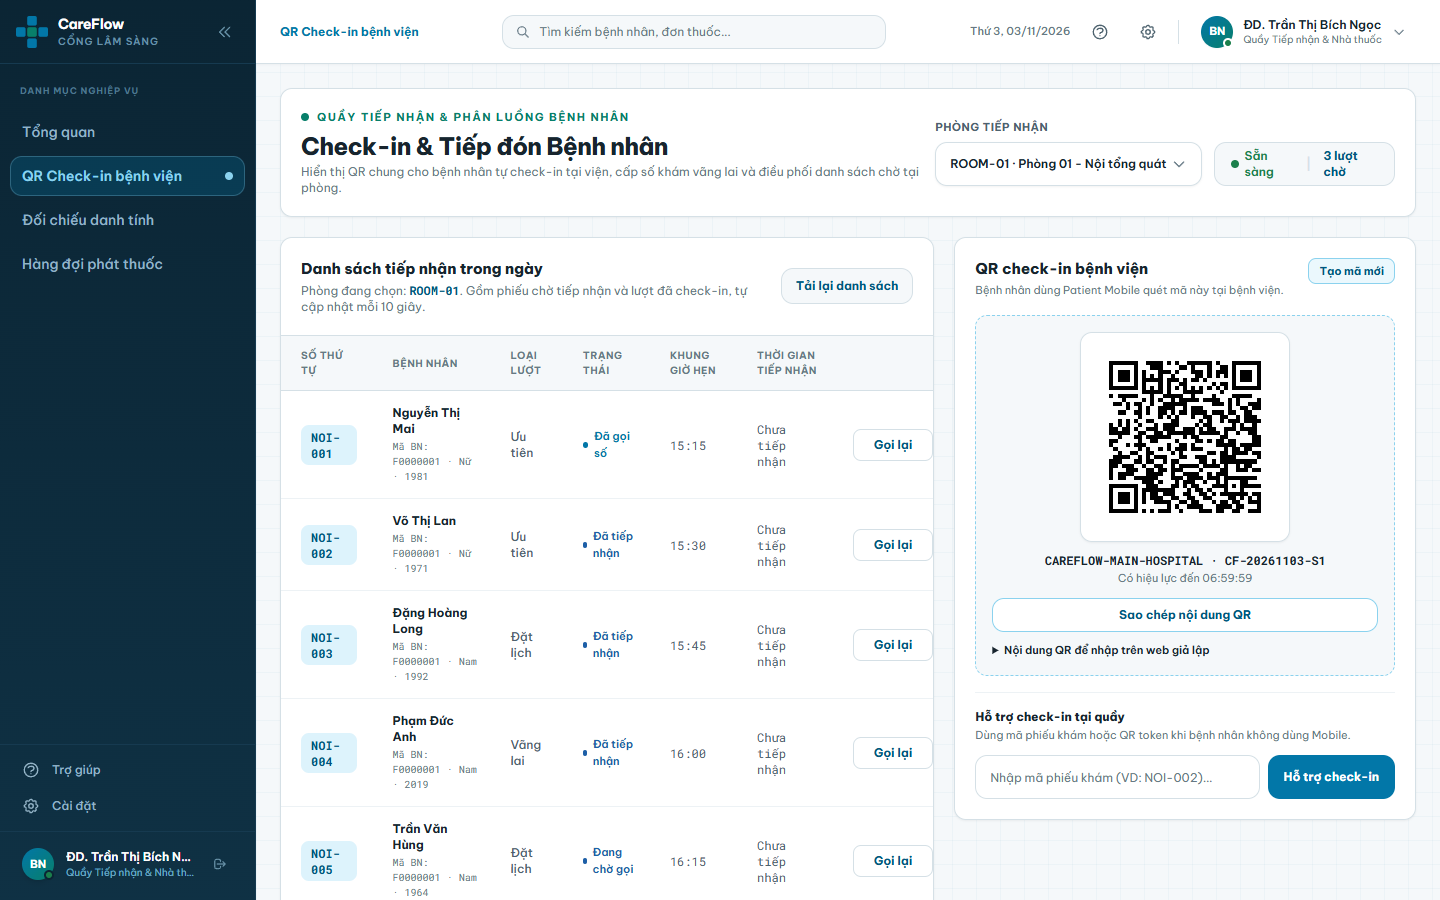
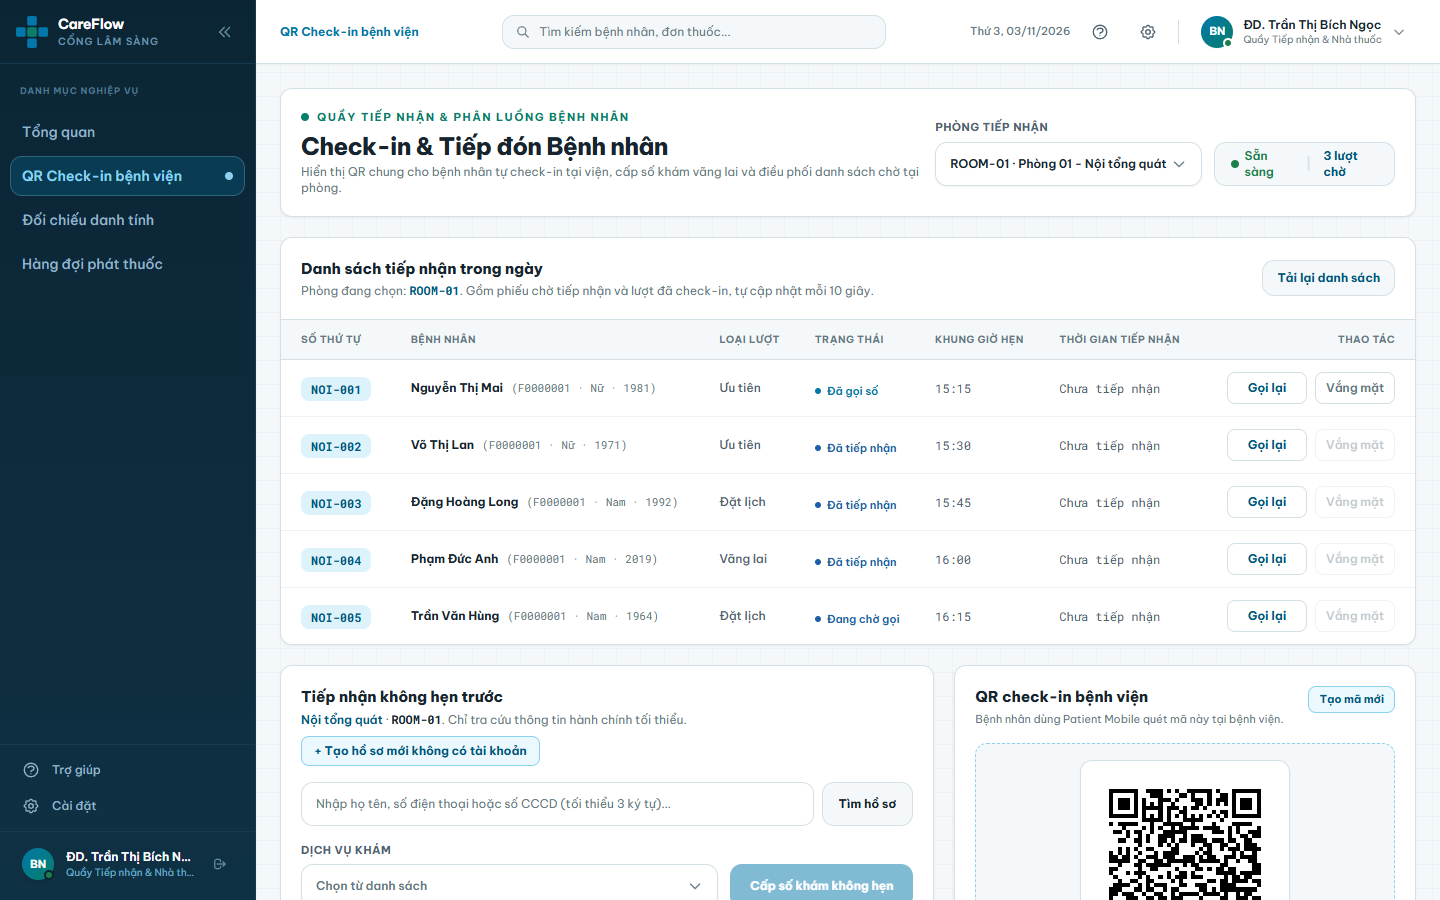
style(checkin): make ReceptionQueueTable full-width with single-line rows

diff --git a/frontend/doctor-web/src/components/queue/ReceptionQueueTable.tsx b/frontend/doctor-web/src/components/queue/ReceptionQueueTable.tsx
@@ -70,16 +70,16 @@ export default function ReceptionQueueTable({
         </div>
       ) : (
         <div className="overflow-x-auto">
-          <table className="w-full min-w-[760px] border-collapse text-left">
+          <table className="w-full border-collapse text-left">
             <thead>
               <tr className="border-b border-[#D5E0E6] bg-[#F5F8FA] text-[10px] font-bold uppercase tracking-wider text-[#667985]">
-                <th className="px-5 py-3">Số thứ tự</th>
-                <th className="px-4 py-3">Bệnh nhân</th>
-                <th className="px-4 py-3">Loại lượt</th>
-                <th className="px-4 py-3">Trạng thái</th>
-                <th className="px-4 py-3">Khung giờ hẹn</th>
-                <th className="px-4 py-3">Thời gian tiếp nhận</th>
-                <th className="px-5 py-3 text-right">Thao tác</th>
+                <th className="whitespace-nowrap px-5 py-3">Số thứ tự</th>
+                <th className="whitespace-nowrap px-4 py-3">Bệnh nhân</th>
+                <th className="whitespace-nowrap px-4 py-3">Loại lượt</th>
+                <th className="whitespace-nowrap px-4 py-3">Trạng thái</th>
+                <th className="whitespace-nowrap px-4 py-3">Khung giờ hẹn</th>
+                <th className="whitespace-nowrap px-4 py-3">Thời gian tiếp nhận</th>
+                <th className="whitespace-nowrap px-5 py-3 text-right">Thao tác</th>
               </tr>
             </thead>
             <tbody>
@@ -97,19 +97,21 @@ export default function ReceptionQueueTable({
                 return (
                   <tr
                     key={entry.entryId}
-                    className="min-h-[44px] border-b border-[#EDF2F5] last:border-0 hover:bg-[#F5F8FA]/80"
+                    className="min-h-[48px] border-b border-[#EDF2F5] last:border-0 hover:bg-[#F5F8FA]/80"
                   >
-                    <td className="px-5 py-3.5">
-                      <span className="inline-flex rounded-lg bg-[#DDF3FC] px-2.5 py-1 font-mono text-xs font-extrabold text-[#00577E]">
+                    <td className="whitespace-nowrap px-5 py-3">
+                      <span className="inline-flex whitespace-nowrap rounded-lg bg-[#DDF3FC] px-2.5 py-1 font-mono text-xs font-extrabold text-[#00577E]">
                         {entry.queueNumber}
                       </span>
                     </td>
-                    <td className="px-4 py-3.5">
+                    <td className="whitespace-nowrap px-4 py-3">
                       {patient ? (
-                        <div>
-                          <p className="text-xs font-bold text-[#17242D]">{patient.fullName}</p>
-                          <p className="mt-0.5 font-mono text-[10px] text-[#667985]">
-                            Mã BN: {patient.id.slice(0, 8).toUpperCase()} ·{" "}
+                        <div className="flex items-baseline gap-2">
+                          <span className="whitespace-nowrap text-xs font-bold text-[#17242D]">
+                            {patient.fullName}
+                          </span>
+                          <span className="whitespace-nowrap font-mono text-[11px] text-[#667985]">
+                            ({patient.id.slice(0, 8).toUpperCase()} ·{" "}
                             {patient.gender === "MALE"
                               ? "Nam"
                               : patient.gender === "FEMALE"
@@ -118,41 +120,47 @@ export default function ReceptionQueueTable({
                             {patient.dateOfBirth
                               ? ` · ${new Date(patient.dateOfBirth).getFullYear()}`
                               : ""}
-                          </p>
+                            )
+                          </span>
                         </div>
                       ) : (
-                        <div>
-                          <p className="text-xs font-medium text-[#667985]">Đang tải thông tin</p>
-                          <p className="mt-0.5 font-mono text-[10px] text-[#667985]">
-                            Mã BN: {entry.patientId.slice(0, 8).toUpperCase()}
-                          </p>
+                        <div className="flex items-baseline gap-2">
+                          <span className="whitespace-nowrap text-xs font-medium text-[#667985]">
+                            Đang tải thông tin
+                          </span>
+                          <span className="whitespace-nowrap font-mono text-[11px] text-[#667985]">
+                            ({entry.patientId.slice(0, 8).toUpperCase()})
+                          </span>
                         </div>
                       )}
                     </td>
-                    <td className="px-4 py-3.5 text-xs font-medium text-[#4D626E]">
+                    <td className="whitespace-nowrap px-4 py-3 text-xs font-medium text-[#4D626E]">
                       {PRIORITY_LABELS[entry.priorityLevel] || entry.priorityLevel}
                     </td>
-                    <td className="px-4 py-3.5">
+                    <td className="whitespace-nowrap px-4 py-3">
                       <ReceptionStatusText status={entry.queueStatus} />
                     </td>
-                    <td className="px-4 py-3.5 font-mono text-xs text-[#4D626E]">
+                    <td className="whitespace-nowrap px-4 py-3 font-mono text-xs text-[#4D626E]">
                       {new Date(entry.scheduledStartAt).toLocaleTimeString("vi-VN", {
                         hour: "2-digit",
                         minute: "2-digit",
                       })}
                     </td>
-                    <td className="px-4 py-3.5 font-mono text-xs text-[#4D626E]">
+                    <td className="whitespace-nowrap px-4 py-3 font-mono text-xs text-[#4D626E]">
                       {entry.checkedInAt
-                        ? new Date(entry.checkedInAt).toLocaleTimeString("vi-VN")
+                        ? new Date(entry.checkedInAt).toLocaleTimeString("vi-VN", {
+                            hour: "2-digit",
+                            minute: "2-digit",
+                          })
                         : "Chưa tiếp nhận"}
                     </td>
-                    <td className="px-5 py-3.5">
-                      <div className="flex justify-end gap-2">
+                    <td className="whitespace-nowrap px-5 py-3">
+                      <div className="flex items-center justify-end gap-2">
                         {canCheckIn && (
                           <button
                             onClick={() => onCheckInEntry(entry)}
                             disabled={isProcessing}
-                            className="h-8 w-24 rounded-lg bg-[#0277A8] text-xs font-bold text-white transition-colors hover:bg-[#00577E] disabled:opacity-50"
+                            className="h-8 w-24 whitespace-nowrap rounded-lg bg-[#0277A8] text-xs font-bold text-white transition-colors hover:bg-[#00577E] disabled:opacity-50"
                           >
                             {isProcessing ? "Đang xử lý" : "Duyệt vào"}
                           </button>
@@ -167,14 +175,14 @@ export default function ReceptionQueueTable({
                                 ? "Chỉ gọi lượt đã tiếp nhận hoặc đang được gọi."
                                 : "Gọi bệnh nhân"
                           }
-                          className="h-8 w-20 rounded-lg border border-[#D5E0E6] bg-white text-xs font-bold text-[#00577E] transition-colors hover:border-[#0277A8] hover:bg-[#DDF3FC] disabled:cursor-not-allowed disabled:opacity-40"
+                          className="h-8 w-20 whitespace-nowrap rounded-lg border border-[#D5E0E6] bg-white text-xs font-bold text-[#00577E] transition-colors hover:border-[#0277A8] hover:bg-[#DDF3FC] disabled:cursor-not-allowed disabled:opacity-40"
                         >
                           Gọi lại
                         </button>
                         <button
                           onClick={() => onMissEntry(entry)}
                           disabled={isProcessing || !canMiss}
-                          className="h-8 w-20 rounded-lg border border-[#D5E0E6] bg-white text-xs font-semibold text-[#667985] transition-colors hover:border-[#BA1A1A] hover:bg-[#BA1A1A]/10 hover:text-[#BA1A1A] disabled:cursor-not-allowed disabled:opacity-40"
+                          className="h-8 w-20 whitespace-nowrap rounded-lg border border-[#D5E0E6] bg-white text-xs font-semibold text-[#667985] transition-colors hover:border-[#BA1A1A] hover:bg-[#BA1A1A]/10 hover:text-[#BA1A1A] disabled:cursor-not-allowed disabled:opacity-40"
                         >
                           Vắng mặt
                         </button>

diff --git a/frontend/doctor-web/src/app/(dashboard)/staff/checkin/page.tsx b/frontend/doctor-web/src/app/(dashboard)/staff/checkin/page.tsx
@@ -328,22 +328,22 @@ export default function StaffCheckinPage() {
         </div>
       </header>
 
-      <div className="grid grid-cols-1 items-start gap-5 xl:grid-cols-12">
-        <div className="space-y-5 xl:col-span-7">
-          <ReceptionQueueTable
-            roomId={roomId}
-            roomError={roomError}
-            queueError={queueError}
-            isLoadingQueue={isLoadingQueue}
-            roomEntries={roomEntries}
-            patientDetails={patientDetails}
-            processingEntryId={processingEntryId}
-            onRefreshQueue={() => void fetchRoomQueue()}
-            onCheckInEntry={(entry) => void handleCheckInEntry(entry)}
-            onRecallEntry={(entry) => void handleRecall(entry)}
-            onMissEntry={(entry) => void handleMiss(entry)}
-          />
+      <ReceptionQueueTable
+        roomId={roomId}
+        roomError={roomError}
+        queueError={queueError}
+        isLoadingQueue={isLoadingQueue}
+        roomEntries={roomEntries}
+        patientDetails={patientDetails}
+        processingEntryId={processingEntryId}
+        onRefreshQueue={() => void fetchRoomQueue()}
+        onCheckInEntry={(entry) => void handleCheckInEntry(entry)}
+        onRecallEntry={(entry) => void handleRecall(entry)}
+        onMissEntry={(entry) => void handleMiss(entry)}
+      />
 
+      <div className="grid grid-cols-1 items-start gap-5 xl:grid-cols-12">
+        <div className="xl:col-span-7">
           <WalkInReception
             key={roomId}
             roomId={roomId}

diff --git a/frontend/doctor-web/src/components/queue/QueueBadges.tsx b/frontend/doctor-web/src/components/queue/QueueBadges.tsx
@@ -38,11 +38,11 @@ export const PRIORITY_LABELS: Record<string, string> = {
 export function ReceptionStatusText({ status }: { status: string }) {
   return (
     <span
-      className={`inline-flex items-center gap-1.5 text-[11px] font-semibold ${
+      className={`inline-flex items-center gap-1.5 whitespace-nowrap text-[11px] font-semibold ${
         RECEPTION_STATUS_COLORS[status] || "text-[#667985]"
       }`}
     >
-      <span className="h-1.5 w-1.5 rounded-full bg-current" />
+      <span className="h-1.5 w-1.5 shrink-0 rounded-full bg-current" />
       {RECEPTION_STATUS_LABELS[status] || status}
     </span>
   );
